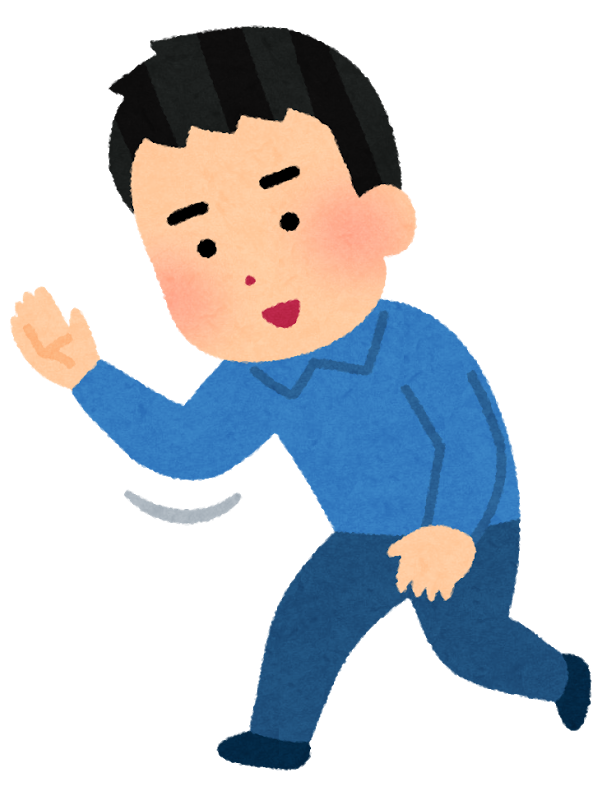
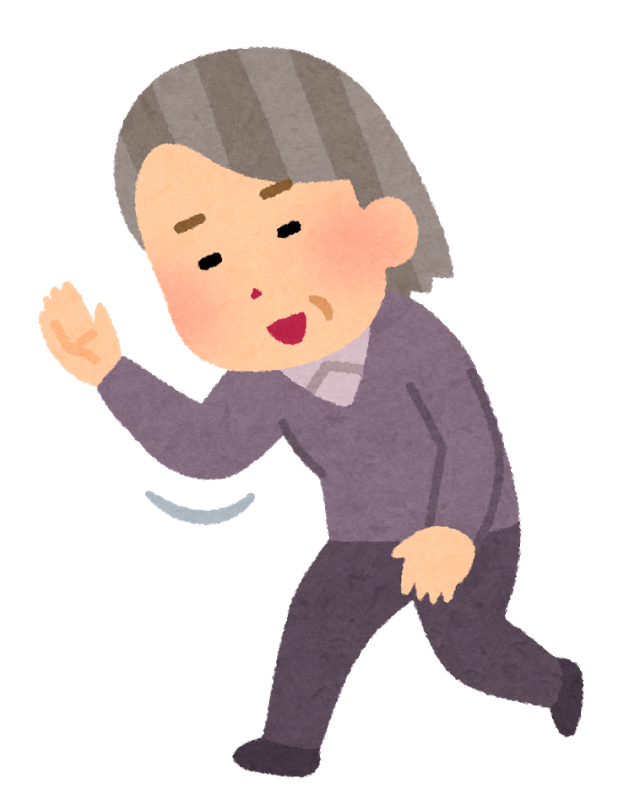
顧客を増やしたよ

diff --git a/assets/js/script.js b/assets/js/script.js
@@ -1,7 +1,9 @@
 var stage, w, h, loader;
 var beef, balloon, questionText, questions;
+var customer = new Array();
 const MAX = 10; //問題数
-var now = MAX;
+const CUSTOMER_NUM = 8;
+var now = MAX, count = 0;
 window.addEventListener("load", init); 
 
 function init() { 
@@ -11,7 +13,14 @@ function init() {
 
     var manifest = [
         {src: "beef.jpg", id: "beef"},
+        {src: "customer0.png", id: "customer0"},
         {src: "customer1.png", id: "customer1"},
+        {src: "customer2.png", id: "customer2"},
+        {src: "customer3.png", id: "customer3"},
+        {src: "customer4.png", id: "customer4"},
+        {src: "customer5.png", id: "customer5"},
+        {src: "customer6.png", id: "customer6"},
+        {src: "customer7.png", id: "customer7"},
         {src: "balloon.png", id: "balloon"}
     ];
 
@@ -28,7 +37,8 @@ function handleComplete() {
     beef.x = w * 0.5;
     beef.y = h * 0.7;
 
-    customer1 = new createjs.Bitmap(loader.getResult("customer1"));
+    for(var i = 0; i < CUSTOMER_NUM; i++)
+        customer[i] = new createjs.Bitmap(loader.getResult("customer" + i));
     balloon = new createjs.Bitmap(loader.getResult("balloon"));
     problemInit();
 
@@ -54,6 +64,7 @@ function sayMoo(event){
 
 function nextProblem(event) {
     now++;
+    count++;
 }
 
 const quests = [
@@ -90,12 +101,15 @@ function generateProblem(num) {
 }
 
 function problemInit() {
-    customer1.scaleX = 0.2;
-    customer1.scaleY = 0.2;
-    customer1.regX = customer1.getBounds().width / 2;
-    customer1.regY = customer1.getBounds().height / 2;
-    customer1.x = w * 0.8;
-    customer1.y = h * 0.2;
+    for(var i = 0; i < CUSTOMER_NUM; i++) {
+        customer[i].scaleX = 0.2;
+        customer[i].scaleY = 0.2;
+        customer[i].regX = customer[i].getBounds().width / 2;
+        customer[i].regY = customer[i].getBounds().height / 2;
+        customer[i].x = w * 0.8;
+        customer[i].y = h * 0.2;
+        stage.addChild(customer[i]);
+    }
     balloon.scaleX = 0.8;
     balloon.scaleY = 0.8;
     balloon.regX = balloon.getBounds().width / 2;
@@ -105,12 +119,14 @@ function problemInit() {
     questionText = new createjs.Text("", "20px Arial", "#000000");
     questionText.x = w * 0.37;
     questionText.y = h * 0.15;
-    stage.addChild(customer1);
     stage.addChild(balloon);
     stage.addChild(questionText);
 }
 
 function problemUpdate(id) {
+    for(var i = 0; i < CUSTOMER_NUM; i++)
+        customer[i].visible = false;
+    customer[count % CUSTOMER_NUM].visible = true;
     questionText.text = jpQuests[quests[id]];
     questionText.regX = questionText.getBounds().width / 2;
     questionText.regY = questionText.getBounds().height / 2;
